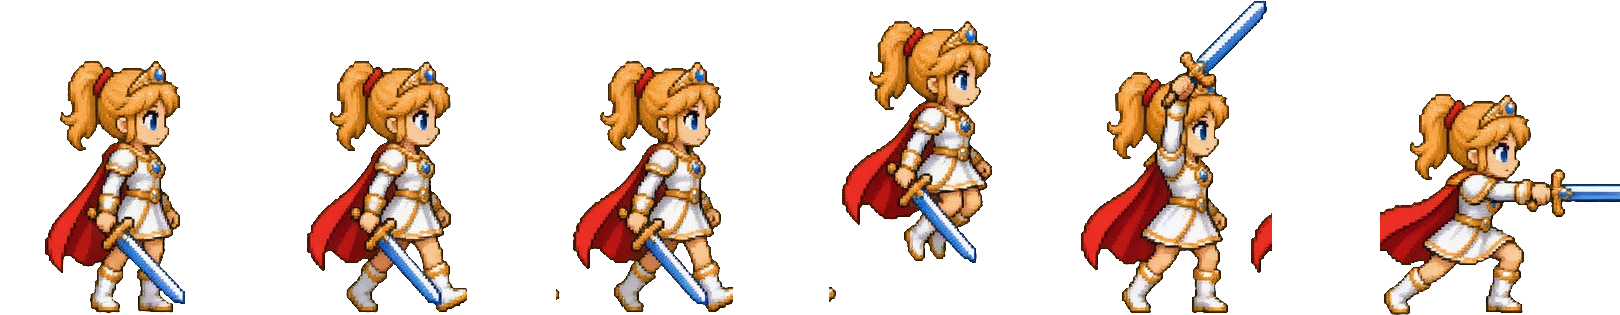
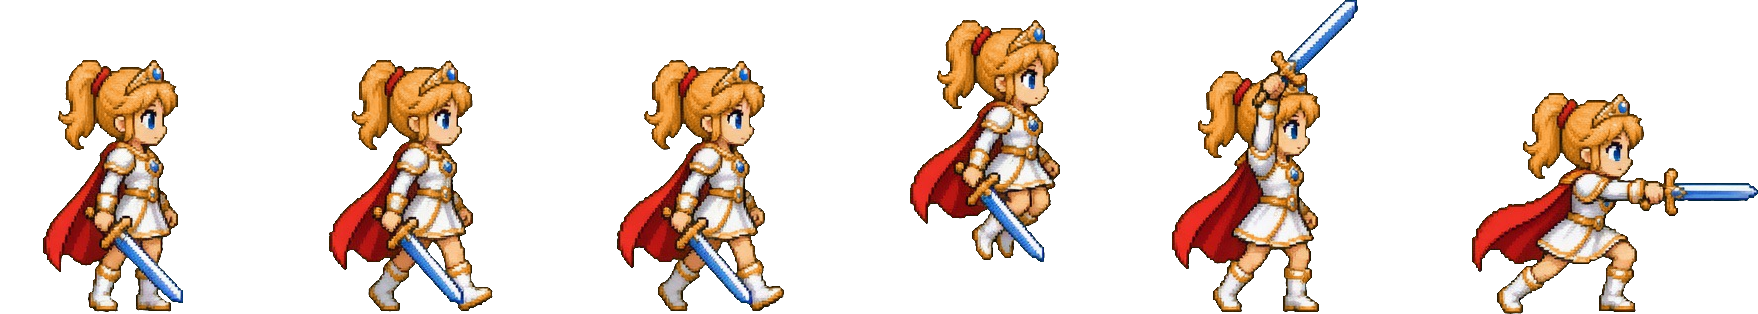
fix: 動作幀改用連通區域切出，修正披風被裁切與鄰格碎片混入
原本用「兩個角色中心的中線」垂直切開，導致：
- 往左伸的披風超出中線被切掉
- 隔壁姿勢往右伸的劍被算進這一格

改成 8 連通標記後，角色＋披風＋劍是一整塊，六格各自完整分離。
驗證每格像素數與原圖區塊一致（誤差 <0.5%，來自邊緣半透明像素）。

同時把整條流程寫成 tools/greenscreen_sheet.py，之後補動作或做敵人
可以一行指令跑完（去背 → 切件 → 對齊 → 輸出 → 裁切驗證）。

Claude-Session: https://claude.ai/code/session_015KdV9rzzxhngxWRbvtQ9iL

diff --git a/tools/greenscreen_sheet.py b/tools/greenscreen_sheet.py
@@ -1,0 +1,123 @@
+#!/usr/bin/env python3
+"""把綠幕動作圖轉成對齊好的 sprite sheet。
+
+用法：
+    python3 tools/greenscreen_sheet.py 輸入.jpg 輸出資料夾 名稱1 名稱2 ...
+
+流程：去背去綠邊 → 連通區域切出每個姿勢（含披風與劍）→ 以頭部中心與地平線對齊
+     → 輸出共用畫格的 sheet.png 與 frames.json → 驗證有沒有被裁切。
+
+注意：一定要用連通區域切，不能用垂直中線切。角色的披風會往左伸、劍會往右伸，
+     中線切法會同時「切掉自己的披風」跟「切進隔壁的劍」。
+"""
+import sys, os, json
+from collections import deque
+import numpy as np
+from PIL import Image
+
+MIN_BLOB = 40          # 小於這個像素數的區塊視為雜訊
+SOLID = 0.4            # 判定為實體的 alpha 門檻
+
+
+def key_out(path):
+    """綠幕去背，回傳 (RGB 陣列, alpha 0~1)。"""
+    im = Image.open(path).convert("RGB")
+    a = np.array(im).astype(float)
+    R, G, B = a[:, :, 0], a[:, :, 1], a[:, :, 2]
+    greenness = np.clip((G - np.maximum(R, B)) / 70.0, 0, 1)
+    alpha = 1.0 - np.clip((greenness - 0.25) / 0.35, 0, 1)
+    spill = G > (R + B) / 2 + 6                     # 去掉邊緣的綠色溢色
+    g2 = G.copy()
+    g2[spill] = ((R + B) / 2 + 6)[spill]
+    return np.dstack([R, g2, B]).clip(0, 255), alpha
+
+
+def label_blobs(mask):
+    """8 連通標記，回傳 (標籤圖, 依 x 排序的區塊清單)。"""
+    H, W = mask.shape
+    lab = np.zeros((H, W), np.int32)
+    blobs, cur = [], 0
+    for sy in range(H):
+        for sx in range(W):
+            if mask[sy, sx] and lab[sy, sx] == 0:
+                cur += 1
+                lab[sy, sx] = cur
+                q = deque([(sy, sx)])
+                px, minx = 0, sx
+                while q:
+                    y, x = q.popleft()
+                    px += 1
+                    minx = min(minx, x)
+                    for dy in (-1, 0, 1):
+                        for dx in (-1, 0, 1):
+                            ny, nx = y + dy, x + dx
+                            if 0 <= ny < H and 0 <= nx < W and mask[ny, nx] and lab[ny, nx] == 0:
+                                lab[ny, nx] = cur
+                                q.append((ny, nx))
+                if px >= MIN_BLOB:
+                    blobs.append({"id": cur, "px": px, "x0": minx})
+    blobs.sort(key=lambda b: b["x0"])
+    return lab, blobs
+
+
+def build(src, dst, names):
+    rgb, alpha = key_out(src)
+    mask = alpha > SOLID
+    lab, blobs = label_blobs(mask)
+    print("偵測到 %d 個姿勢" % len(blobs))
+    if len(blobs) != len(names):
+        print("!! 姿勢數與名稱數不符（%d vs %d），請確認圖上的角色沒有互相碰到"
+              % (len(blobs), len(names)))
+
+    ground = int(np.where(mask.any(axis=1))[0].max())      # 最低的腳當地平線
+    PADX, TOPY = 200, 380
+    CW, CH = PADX * 2, TOPY + 40
+
+    frames, srcpx = [], []
+    for blob, nm in zip(blobs, names):
+        m = lab == blob["id"]
+        fig = Image.fromarray(np.dstack([rgb, np.where(m, alpha, 0) * 255]).astype(np.uint8), "RGBA")
+        solid = (alpha > SOLID) & m
+        rowW = solid.sum(axis=1)
+        top = int(np.where(rowW > 14)[0].min())            # 夠寬的列才算身體，避開細長的劍
+        hb = solid[top:top + 70]
+        hx = np.where(hb.any(axis=0))[0]
+        head_cx = (hx.min() + hx.max()) / 2
+        canvas = Image.new("RGBA", (CW, CH), (0, 0, 0, 0))
+        canvas.paste(fig, (int(PADX - head_cx), TOPY - ground), fig)
+        frames.append(canvas)
+        srcpx.append(int(m.sum()))
+
+    bbs = [f.getbbox() for f in frames]
+    x0, y0 = min(b[0] for b in bbs), min(b[1] for b in bbs)
+    x1, y1 = max(b[2] for b in bbs), max(b[3] for b in bbs)
+    FW, FH = x1 - x0, y1 - y0
+    os.makedirs(dst, exist_ok=True)
+    sheet = Image.new("RGBA", (FW * len(frames), FH), (0, 0, 0, 0))
+    for i, f in enumerate(frames):
+        sheet.paste(f.crop((x0, y0, x1, y1)), (i * FW, 0))
+    sheet.save(os.path.join(dst, "sheet.png"), optimize=True)
+    json.dump({"frames": names, "frame_w": FW, "frame_h": FH,
+               "anchor": {"head_center_x": PADX - x0, "ground_y": TOPY - y0}},
+              open(os.path.join(dst, "frames.json"), "w"), ensure_ascii=False, indent=2)
+    print("畫格 %dx%d，sheet.png %.0f KB"
+          % (FW, FH, os.path.getsize(os.path.join(dst, "sheet.png")) / 1024))
+
+    # 驗證：畫格內的像素數要跟原圖的區塊一致，少了就是被裁切
+    arr = np.array(Image.open(os.path.join(dst, "sheet.png")))
+    bad = 0
+    for i, (nm, sp) in enumerate(zip(names, srcpx)):
+        out = int((arr[:, i * FW:(i + 1) * FW, 3] > 100).sum())
+        d = out - sp
+        flag = "OK" if abs(d) < sp * 0.02 else "!! 被裁切"
+        if flag != "OK":
+            bad += 1
+        print("  %-12s %6d → %6d (%+d) %s" % (nm, sp, out, d, flag))
+    print("驗證：" + ("全部完整" if bad == 0 else "%d 格有問題" % bad))
+
+
+if __name__ == "__main__":
+    if len(sys.argv) < 4:
+        print(__doc__)
+        sys.exit(1)
+    build(sys.argv[1], sys.argv[2], sys.argv[3:])

diff --git a/assets/character/anim/README.md b/assets/character/anim/README.md
@@ -18,6 +18,17 @@
 - 腳底線 y=504～506，**差 2 px**
 - 以頭部質心對齊後，頭與軀幹輪廓重合，只有腿與披風在動
 
+## 產生方式
+
+```bash
+python3 tools/greenscreen_sheet.py 綠幕圖.jpg assets/character/anim idle walk1 walk2 jump atk_up atk_thrust
+```
+
+腳本會自動去背、以**連通區域**切出每個姿勢、對齊、輸出並驗證有沒有被裁切。
+
+> ⚠ 切圖一定要用連通區域，不能用垂直中線。角色的披風往左伸、劍往右伸，
+> 中線切法會同時「切掉自己的披風」與「切進隔壁角色的劍」——第一版就踩到這個坑。
+
 ## 對位方式
 
 `frames.json` 的 `anchor` 記錄了腳底與頭部中心在畫格內的座標。
